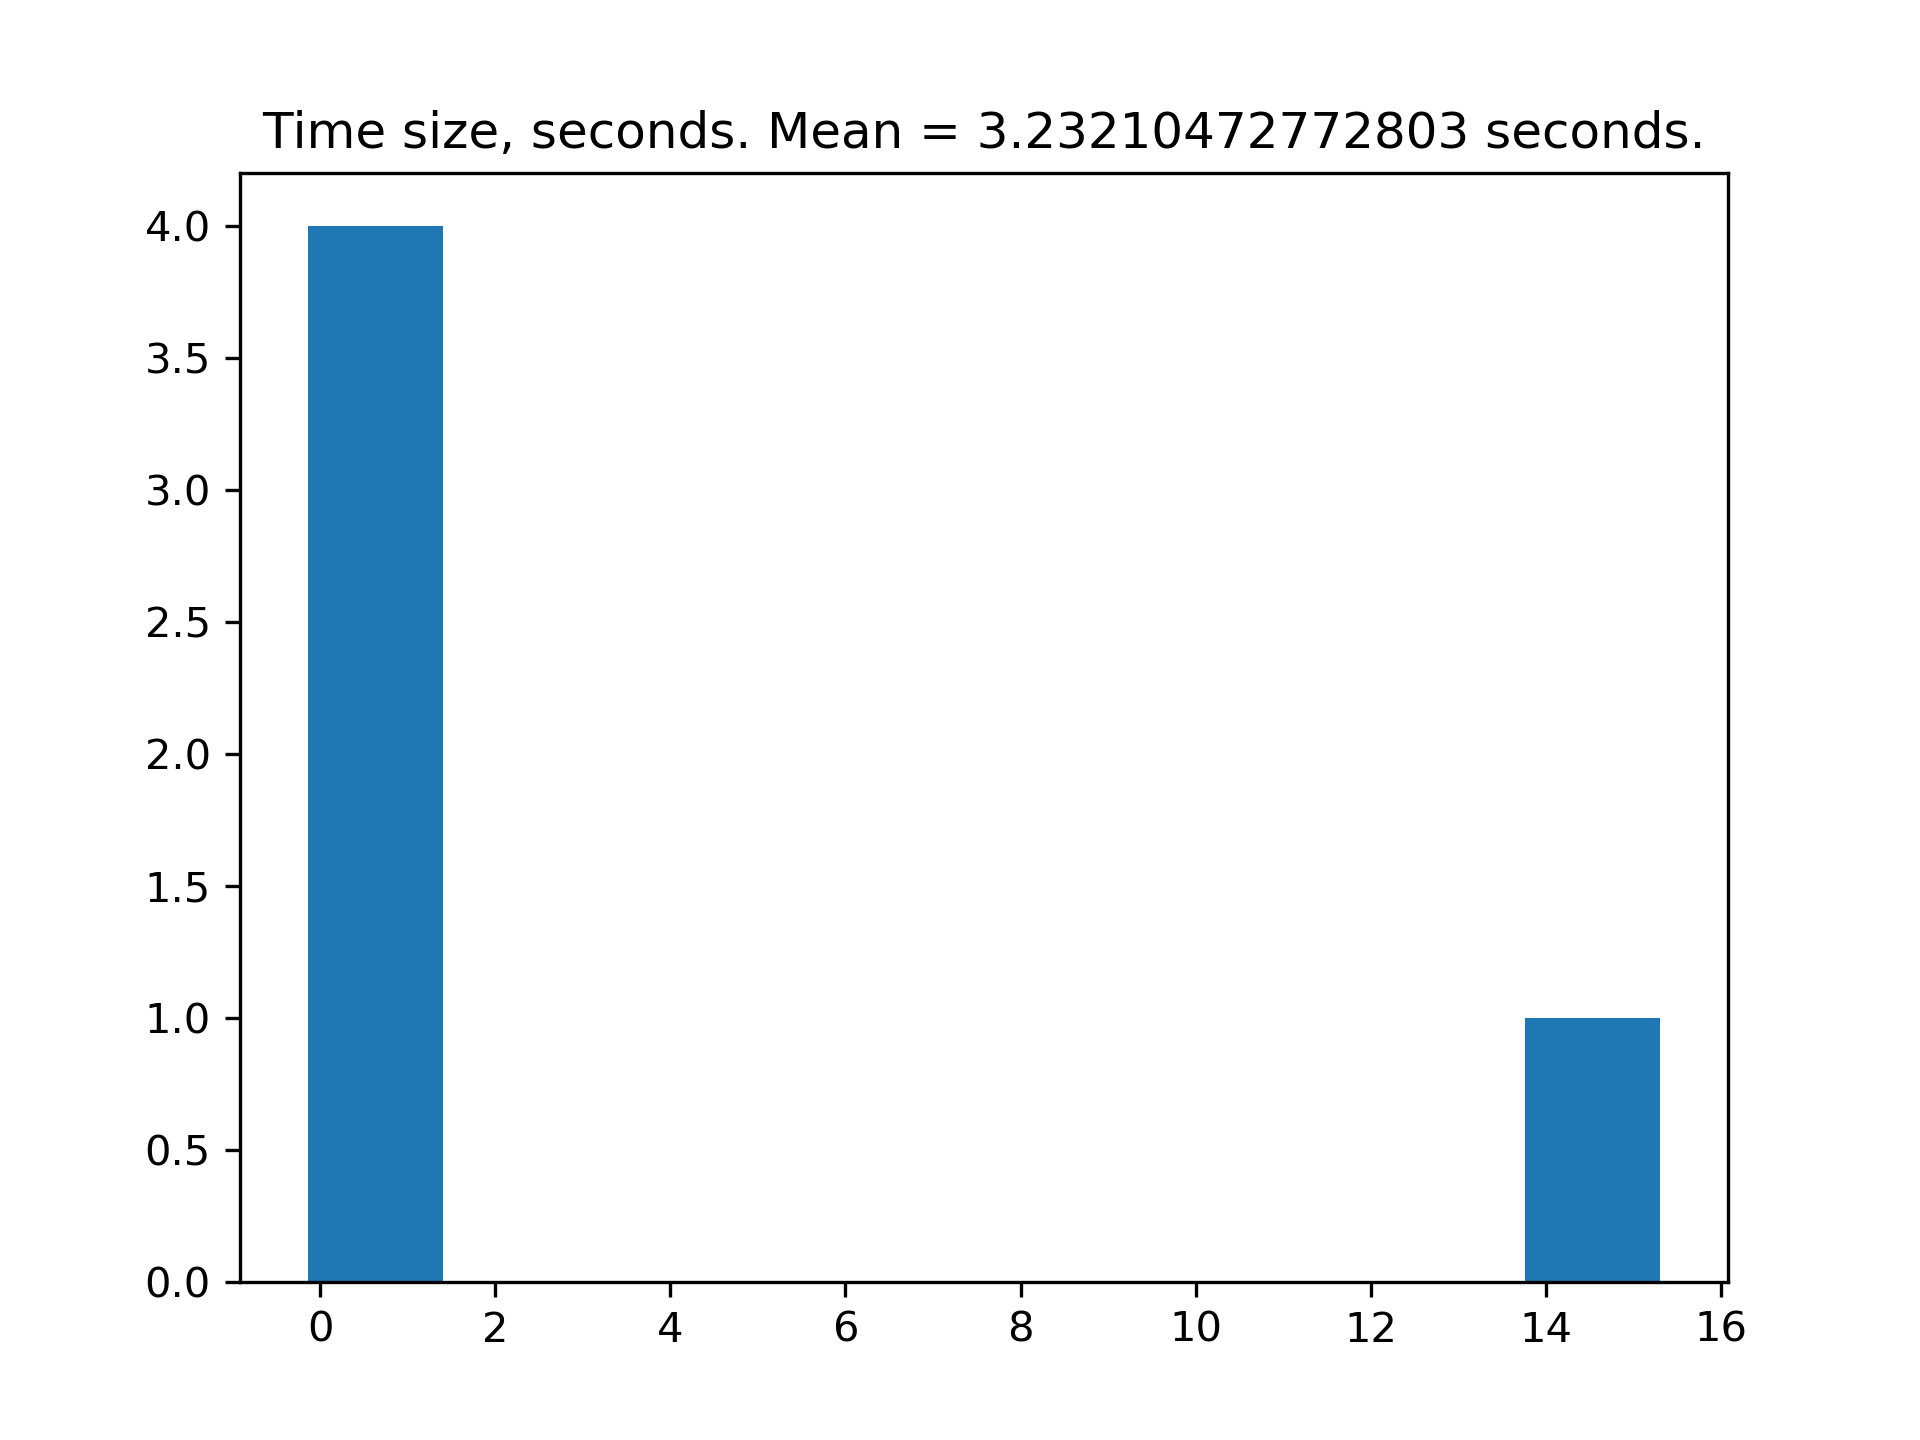
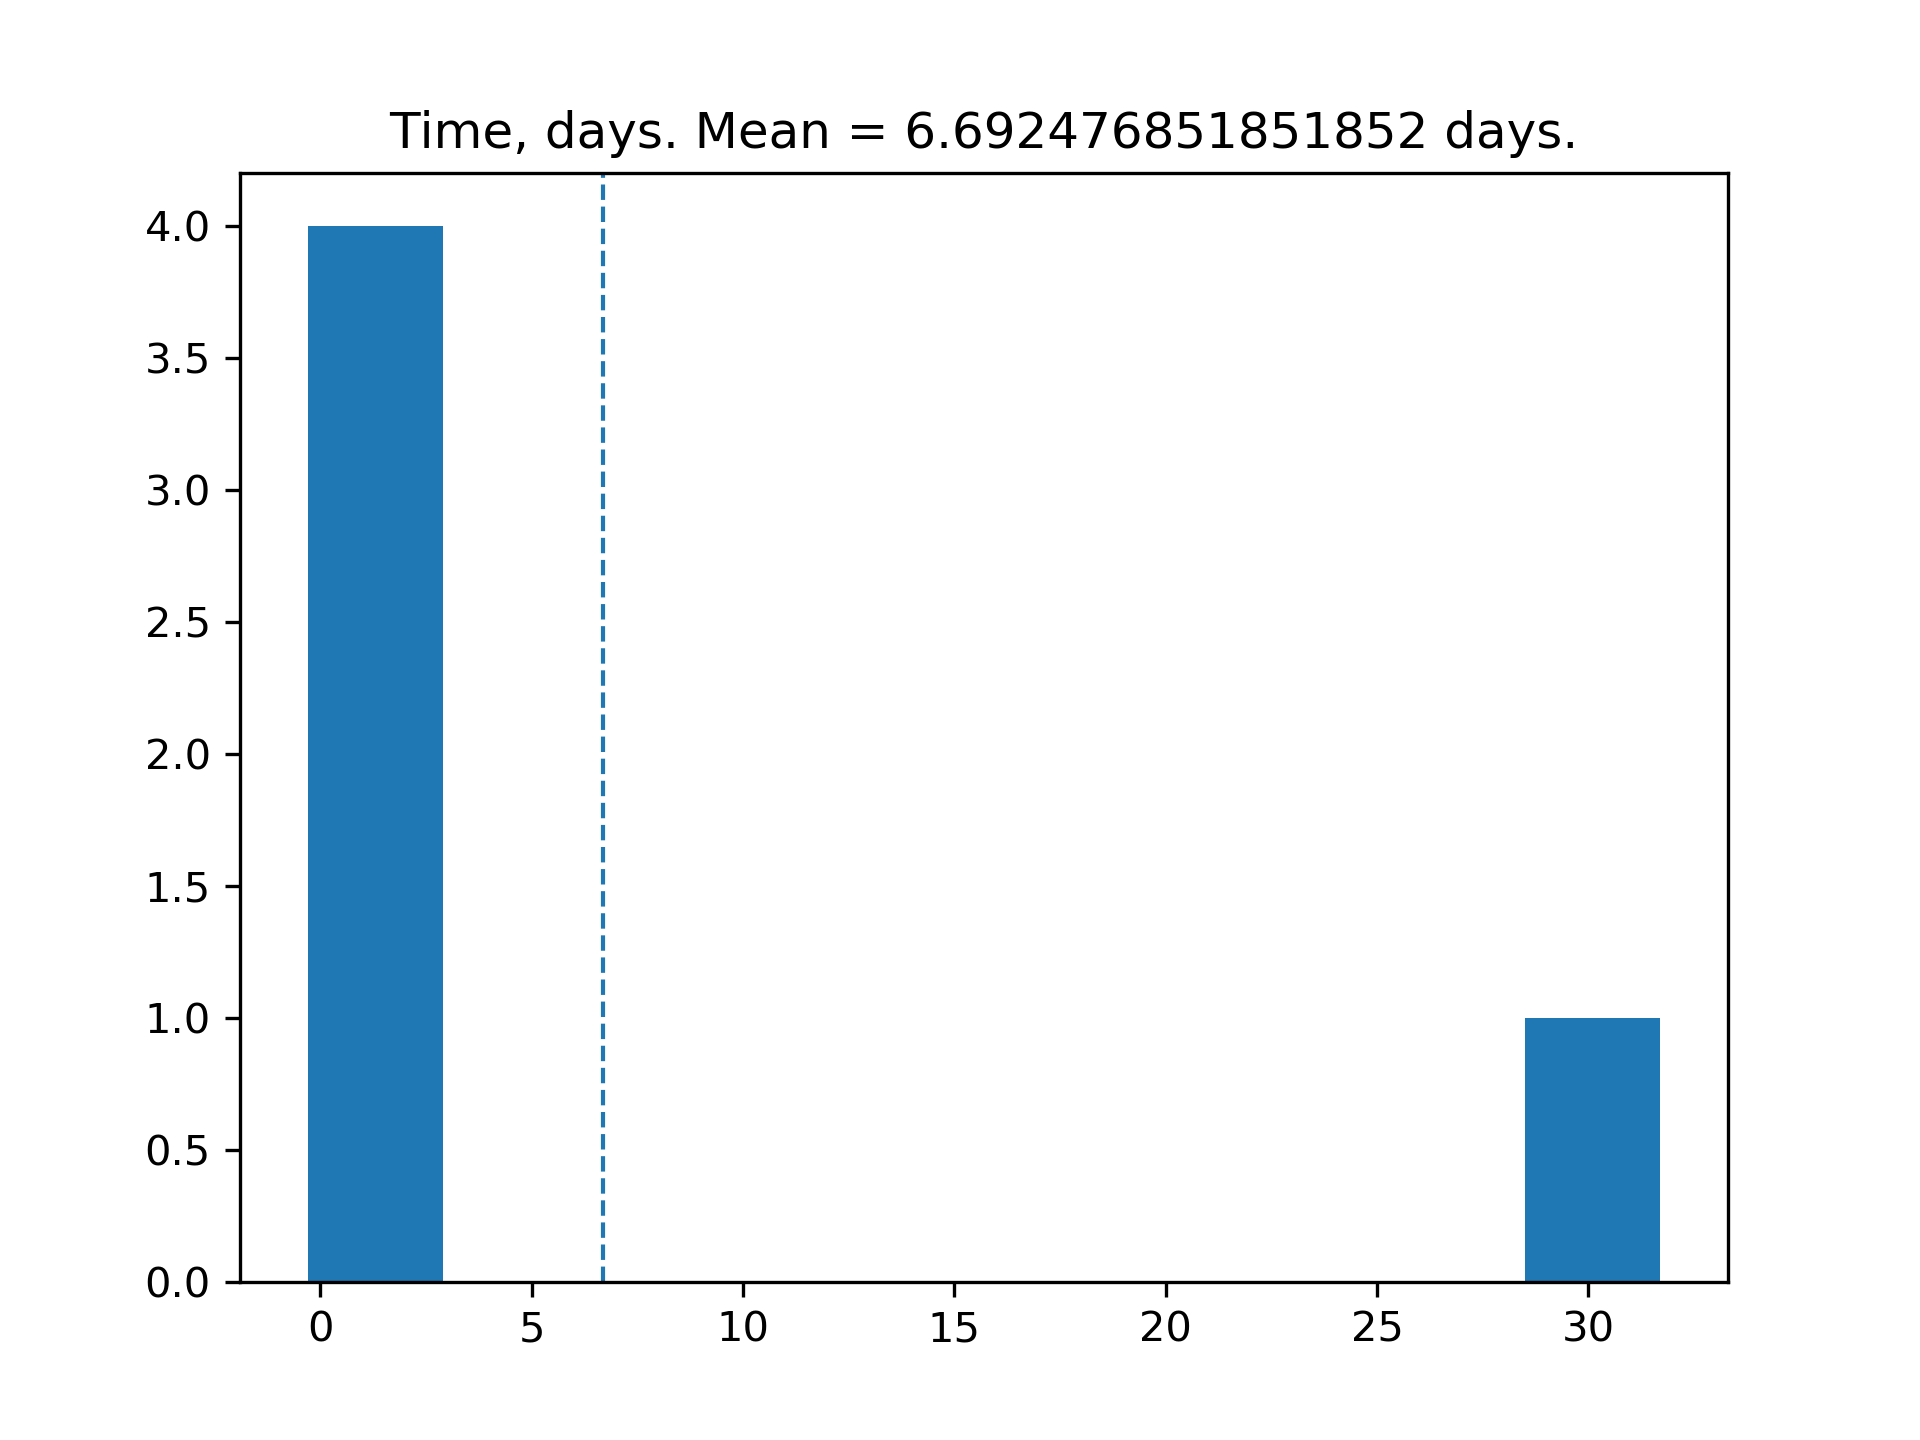
refactoring

diff --git a/log_time/log_time.py b/log_time/log_time.py
@@ -1,49 +1,32 @@
-import glob, os, sys
-import numpy as np
-import warnings
-import matplotlib.pyplot as plt
-import re
+import argparse
 import datetime
+import matplotlib.pyplot as plt
+import numpy as np
+import os
 import psycopg2
+import re
+import warnings
+
+from config import *
 
 
-SIZE = 1024
-UNITS = ['seconds', 'minutes', 'hours', 'days']
-START = 'Start date:'
-END = 'End date:'
-SUCCESS = 'Macro finished successfully!'
-START_REGEX = r'Start date: \w{2} \w{3} \d{1,2} \d{1,2}:\d{1,2}:\d{1,2} \w+ \d{4}'
-END_REGEX = r'End date: \w{2} \w{3} \d{1,2} \d{1,2}:\d{1,2}:\d{1,2} \w+ \d{4}'
-MONTH_ARR = ['янв', 'фев', 'мар', 'апр', 'май', 'июн', 'июл', 'авг', 'сен', 'окт', 'ноя', 'дек']
-UNITS = ['seconds', 'minutes', 'hours', 'days', 'months', 'years']
-SIZE = [1, 60, 60, 24, 30, 12]
-EXCLUDED_EXTENSIONS = ['.py', '.DS_Store', '.png']
-UNSUCCESSFUL_OUT = 'unsuccessful.txt'
-RUN_REGEX = r'run\d+'
-RUN_EXTENSION = '.root'
-UNI_DB_USERNAME = "db_reader"
-UNI_DB_PASSWORD = "reader_pass"
-UNI_DB_NAME = "bmn_db"
-UNI_DB_HOST = "vm221-53.jinr.ru"
+def convert_units(arr):
+	mean = np.mean(arr)
+	u = len(UNITS) - 1
+	for i, unit in enumerate(UNITS):
+		mean = mean / SIZE[i]
+		if mean < SIZE[i+1]:
+			u = i
+			break
+	for i in range (u + 1):
+		arr = arr / SIZE[i]
+	return arr, UNITS[u]
 
-
-
-
-def convert_units(arr, mean):
-    u = len(UNITS) - 1
-    for i, unit in enumerate(UNITS):
-        mean = mean / SIZE[i]
-        if mean < SIZE[i+1]:
-            u = i
-            break
-    for i in range (u + 1):
-        arr = arr / SIZE[i]
-
-    return arr, mean, UNITS[u]
 
 def convert_month(month):
 	res = MONTH_ARR.index(month) + 1
 	return res
+
 
 def get_date(result):
 	year = int(result[7])
@@ -83,71 +66,85 @@ def parse_time(log_file):
 		delta = (end - start).total_seconds()
 	return delta, is_successful, run_num
 
+
 def get_events_count(run_num):
 	conn = psycopg2.connect(dbname=UNI_DB_NAME, user=UNI_DB_USERNAME, 
 	                        password=UNI_DB_PASSWORD, host=UNI_DB_HOST)
 	cursor = conn.cursor()
 	cursor.execute(f'SELECT event_count FROM run_ WHERE run_number = {run_num}')
-	count = cursor.fetchone()[0]
+	count = cursor.fetchone()
+	if count is None:
+		return None
+	count = count[0]
 	cursor.close()
 	conn.close()
 	return count
 
+def is_file_to_parse(root, file):
+	filepath = os.path.join(root, file)
+	correct_ext = all([not file.endswith(ext) for ext in EXCLUDED_EXTENSIONS])
+	correct_folder = all([elem not in os.path.join(root, file) for elem in FOLDERS_IGNORE])
+	return correct_ext and correct_folder
 
 def parse_dir(dirname):
 	time_arr = []
-	count_events_arr = []
+	time_per_events_arr = []
 	unsuccessful_arr = []
 	for root, dirs, files in os.walk(dirname):
 		for file in files:
-			if all([not file.endswith(ext) for ext in EXCLUDED_EXTENSIONS]):
+			if is_file_to_parse(root, file):
 				time, is_successful, run_num = parse_time(os.path.join(root, file))
 				if time is not None:
-					time_arr.append(time)
-					count_events_arr = get_events_count(run_num)
+					if run_num is not None:
+						time_arr.append(time)
+						time_per_events_arr.append(time / get_events_count(run_num))
+					elif is_successful == True:
+						warnings.warn("Can not parse run number in successfully ended log file")
+				elif is_successful == True:
+					warnings.warn("Can not parse time in successfully ended log file")
 				if is_successful == False and file != UNSUCCESSFUL_OUT:
 					unsuccessful_arr.append(file)
 	if time_arr == []:
 		warnings.warn("No data")
 		return np.array([]), 0., []
-	return np.array(time_arr), np.mean(np.array(time_arr)), unsuccessful_arr, np.array(count_events_arr)
+	return np.array(time_arr), np.array(time_per_events_arr), unsuccessful_arr
 
-def plot(mean, arr, unit, bins):
-	title = f'Time, {unit}. Mean = {mean} {unit}.'
-	plt.hist(arr, label=title, bins=bins)
-	plt.title(title)
-	plt.show()
 
-def save(mean, arr, unit, bins):
-	title = f'Time size, {unit}. Mean = {mean} {unit}.'
-	plt.hist(arr, label=title, bins=bins)
+def plot_stats(array, bins, title, filename=None):
+	plt.clf()
+	plt.hist(array, bins=bins)
+	plt.axvline(np.mean(array), linestyle='dashed', linewidth=1)
 	plt.title(title)
-	plt.savefig('time.png', dpi=300)
+	if filename is None:
+		plt.show()
+	else:
+		plt.savefig(filename, dpi=DPI)
+
 
 def main():
-	dirname = '.'
-	bins = 10
-	bins_time_per_event = 10
-	if len(sys.argv) > 1:
-		dirname = sys.argv[1]
-	if len(sys.argv) > 2:
-		bins = sys.argv[2]
-	if len(sys.argv) > 2:
-		bins_time_per_event = sys.argv[3]
-	arr, mean, unsuccessful_arr, count_events_arr = parse_dir(dirname)
-	arr_time_per_event = arr / count_events_arr
-	mean_time_per_event = np.mean(arr_time_per_event)
-	arr_time_per_event, mean_time_per_event, unit_time_per_event = convert_units(arr_time_per_event, mean_time_per_event)
-	arr, mean, unit = convert_units(arr, mean)
+	parser = argparse.ArgumentParser()
+	parser.add_argument('--dirname', type=str, help='Name of directory to explore', default='.')
+	parser.add_argument('--bins', type=int, help='Number of bins for time histogram', default=10)
+	parser.add_argument('--bins_per_event', type=int, help='Number of bins for time per event histogram', default=10)
+	args = parser.parse_args()
+	dirname, bins, bins_per_event = args.dirname, args.bins, args.bins_per_event
+
+	arr, arr_per_event, unsuccessful_arr = parse_dir(dirname)
+
+	arr, unit = convert_units(arr)
+	title = f'Time, {unit}. Mean = {np.mean(arr)} {unit}.'
+	plot_stats(arr, bins, title, NAME_TIME)
+
+	arr_per_event, unit_per_event = convert_units(arr_per_event)
+	title_per_event = f'Time per event, {unit_per_event}. Mean = {np.mean(arr_per_event)} {unit_per_event}.'
+	plot_stats(arr_per_event, bins_per_event, title_per_event, NAME_TIME_PER_EVENT)
+
+
 	with open(UNSUCCESSFUL_OUT, 'w') as f:
 		for elem in unsuccessful_arr:
 			f.write(elem + '\n')
-	save(mean, arr, unit, bins)
-	plot(mean, arr, unit, bins)
-	save(mean_time_per_event, arr_time_per_event, unit_time_per_event, bins_time_per_event)
-	plot(mean_time_per_event, arr_time_per_event, unit_time_per_event, bins_time_per_event)
-
 
 
 if __name__ == '__main__':
 	main()
+

diff --git a/file_size/file_size.py b/file_size/file_size.py
@@ -1,18 +1,13 @@
-import glob, os, sys
-import numpy as np
-import warnings
+import argparse
 import matplotlib.pyplot as plt
-import re
+import numpy as np
+import os
 import psycopg2
+import re
+import warnings
 
-SIZE = 1024
-UNITS = ['bytes', 'KB', 'MB', 'GB', 'TB']
-EXTENSIONS = [".data", ".root"]
-RUN_NUM_REGEX = r'\d+'
-UNI_DB_USERNAME = "db_reader"
-UNI_DB_PASSWORD = "reader_pass"
-UNI_DB_NAME = "bmn_db"
-UNI_DB_HOST = "vm221-53.jinr.ru"
+from config import *
+
 
 def get_events_count(run_num):
 	conn = psycopg2.connect(dbname=UNI_DB_NAME, user=UNI_DB_USERNAME, 
@@ -27,68 +22,76 @@ def get_events_count(run_num):
 	conn.close()
 	return count
 
-def convert_units(arr, mean):
-    for i, unit in enumerate(UNITS):
-        if mean / SIZE**i < SIZE:
-            break
-    mean /= SIZE**i
-    arr = arr / (SIZE**i)
-    return arr, mean, unit
+
+def convert_units(arr):
+	mean = np.mean(arr)
+	for i, unit in enumerate(UNITS):
+		if mean / SIZE**i < SIZE:
+			break
+			arr = arr / (SIZE**i)
+	return arr, unit
+
+
+def is_file_to_parse(root, file):
+	filepath = os.path.join(root, file)
+	correct_ext = any([file.endswith(ext) for ext in EXTENSIONS])
+	correct_folder = all([elem not in os.path.join(root, file) for elem in FOLDERS_IGNORE])
+	return correct_ext and correct_folder
+
 
 def parse_dir(dirname):
 	filesize_arr = []
 	filesize_per_event = []
 	for root, dirs, files in os.walk(dirname):
 		for file in files:
-			if any([file.endswith(ext) for ext in EXTENSIONS]):
+			if is_file_to_parse(root, file):
 				filesize_bytes = os.stat(os.path.join(root, file)).st_size
 				run_num = re.search(RUN_NUM_REGEX, file)
 				if run_num is None:
-					warnings.warn("No run found in fillename")
+					warnings.warn("No run number found in filename")
 				else:
 					run_num = run_num.group()
 					run_count = get_events_count(run_num)
 					if run_count is None:
-						warnings.warn("No run found in db")
+						warnings.warn("No run number found in database")
 					else:
 						filesize_arr.append(filesize_bytes)
 						filesize_per_event.append(filesize_bytes / run_count)
 	if filesize_arr == []:
 		warnings.warn("No data")
-		return np.array(filesize_arr), 0.
-	return np.array(filesize_arr), np.mean(np.array(filesize_arr)), np.array(filesize_per_event), np.mean(np.array(filesize_per_event))
+		return np.array([]), np.array([])
+	return np.array(filesize_arr), np.array(filesize_per_event)
 
-def plot(mean, arr, unit, bins):
-	title = f'File size, {unit}. Mean = {mean} {unit}.'
-	plt.hist(arr, label=title, bins=bins)
-	plt.title(title)
-	plt.show()
 
-def save(mean, arr, unit, bins):
-	title = f'File size, {unit}. Mean = {mean} {unit}.'
-	plt.hist(arr, label=title, bins=bins)
+def plot_stats(array, bins, title, filename=None):
+	plt.clf()
+	plt.hist(array, bins=bins)
+	plt.axvline(np.mean(array), linestyle='dashed', linewidth=1)
 	plt.title(title)
-	plt.savefig('file_size.png', dpi=300)
+	if filename is None:
+		plt.show()
+	else:
+		plt.savefig(filename, dpi=DPI)
+
 
 def main():
-	dirname = '.'
-	bins = 10
-	bins_per_event = 10
-	if len(sys.argv) > 1:
-		dirname = sys.argv[1]
-	if len(sys.argv) > 2:
-		bins = sys.argv[2]
-	if len(sys.argv) > 3:
-		bins_per_event = sys.argv[3]
-	arr, mean, arr_per_event, mean_per_event = parse_dir(dirname)
-	arr, mean, unit = convert_units(arr, mean)
-	arr_per_event, mean_per_event, unit_per_event = convert_units(arr_per_event, mean_per_event)
-	save(mean, arr, unit, bins)
-	plot(mean, arr, unit, bins)
-	save(mean_per_event, arr_per_event, unit_per_event, bins_per_event)
-	plot(mean_per_event, arr_per_event, unit_per_event, bins_per_event)
-	
+	parser = argparse.ArgumentParser()
+	parser.add_argument('--dirname', type=str, help='Name of directory to explore', default='.')
+	parser.add_argument('--bins', type=int, help='Number of bins for filesize histogram', default=10)
+	parser.add_argument('--bins_per_event', type=int, help='Number of bins for filesize per event histogram', default=10)
+	args = parser.parse_args()
+	dirname, bins, bins_per_event = args.dirname, args.bins, args.bins_per_event
+	arr, arr_per_event = parse_dir(dirname)
+
+	arr, unit = convert_units(arr)
+	title = f'File size, {unit}. Mean = {np.mean(arr)} {unit}.'
+	plot_stats(arr, bins, title, NAME_FILESIZE)
+
+	arr_per_event, unit_per_event = convert_units(arr_per_event)
+	title_per_event = f'File size per event, {unit_per_event}. Mean = {np.mean(arr_per_event)} {unit_per_event}.'
+	plot_stats(arr_per_event, bins_per_event, title_per_event, NAME_FILESIZE_PER_EVENT)
 
 
 if __name__ == '__main__':
 	main()
+

diff --git a/log_time/config.py b/log_time/config.py
@@ -1,0 +1,22 @@
+SIZE = 1024
+UNITS = ['seconds', 'minutes', 'hours', 'days']
+START = 'Start date:'
+END = 'End date:'
+SUCCESS = 'Macro finished successfully!'
+START_REGEX = r'Start date: \w{2} \w{3} \d{1,2} \d{1,2}:\d{1,2}:\d{1,2} \w+ \d{4}'
+END_REGEX = r'End date: \w{2} \w{3} \d{1,2} \d{1,2}:\d{1,2}:\d{1,2} \w+ \d{4}'
+MONTH_ARR = ['янв', 'фев', 'мар', 'апр', 'май', 'июн', 'июл', 'авг', 'сен', 'окт', 'ноя', 'дек']
+UNITS = ['seconds', 'minutes', 'hours', 'days', 'months', 'years']
+SIZE = [1, 60, 60, 24, 30, 12]
+EXCLUDED_EXTENSIONS = ['.py', '.DS_Store', '.png']
+UNSUCCESSFUL_OUT = 'unsuccessful.txt'
+RUN_REGEX = r'run\d+'
+RUN_EXTENSION = '.root'
+UNI_DB_USERNAME = "db_reader"
+UNI_DB_PASSWORD = "reader_pass"
+UNI_DB_NAME = "bmn_db"
+UNI_DB_HOST = "vm221-53.jinr.ru"
+NAME_TIME = 'time.png'
+NAME_TIME_PER_EVENT = 'time_per_event.png'
+DPI=300
+FOLDERS_IGNORE = ['__pycache__']

diff --git a/file_size/config.py b/file_size/config.py
@@ -1,0 +1,12 @@
+SIZE = 1024
+UNITS = ['bytes', 'KB', 'MB', 'GB', 'TB']
+EXTENSIONS = [".data", ".root"]
+RUN_NUM_REGEX = r'\d+'
+UNI_DB_USERNAME = "db_reader"
+UNI_DB_PASSWORD = "reader_pass"
+UNI_DB_NAME = "bmn_db"
+UNI_DB_HOST = "vm221-53.jinr.ru"
+DPI = 300
+NAME_FILESIZE = 'filesize.png'
+NAME_FILESIZE_PER_EVENT = 'filesize_per_event.png'
+FOLDERS_IGNORE = ['__pycache__']
